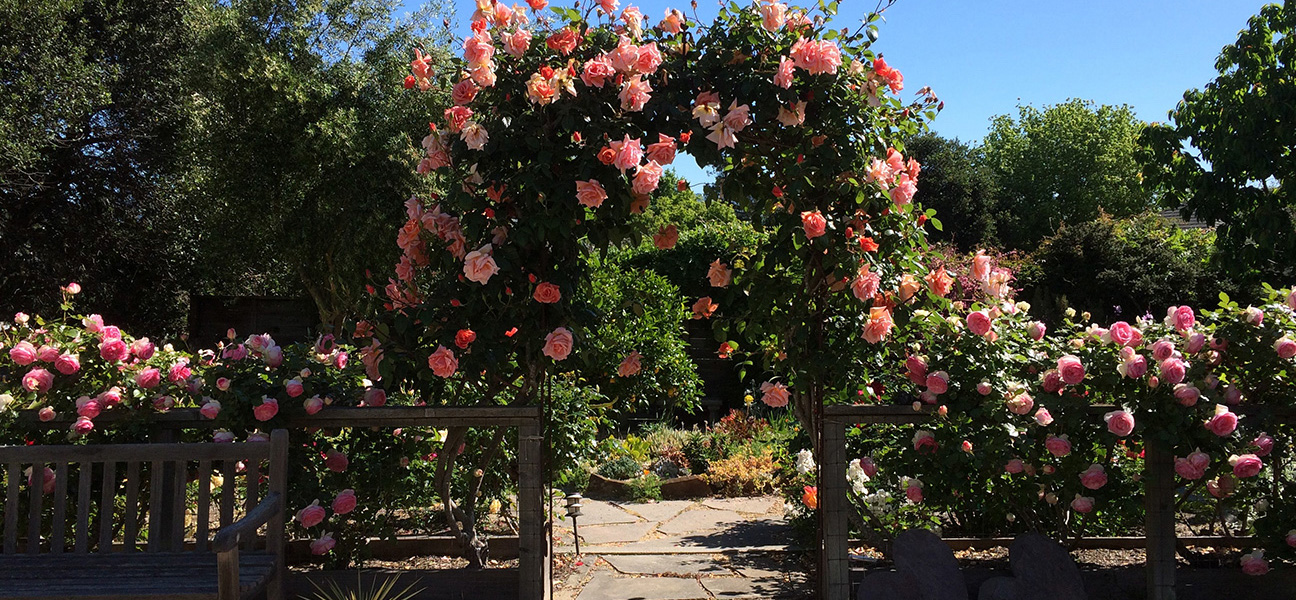
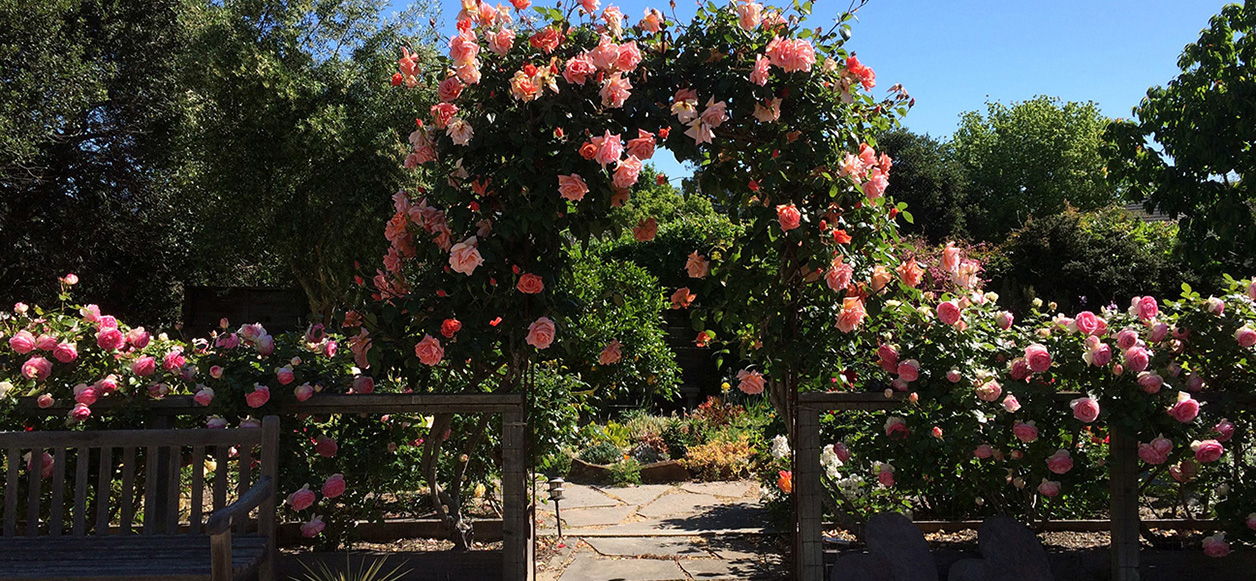
Updating images. Modifying header image to display parent page images. Modified size of gallery to large instead of full

diff --git a/web/app/themes/greenspace/scss/bootstrap.scss b/web/app/themes/greenspace/scss/bootstrap.scss
@@ -1,8 +1,17 @@
 
 // 1. Include functions first (so you can manipulate colors, SVGs, calc, etc)
-@import "../../node_modules/bootstrap/scss/functions";
+@import "../node_modules/bootstrap/scss/functions";
 
 // 2. Include any default variable overrides here
+$container-max-widths: (
+        sm: 540px,
+        md: 720px,
+        lg: 960px,
+        xl: 1140px,
+        xxl: 1280px
+);
+
+
 $green: #488b00;
 
 $gray-100: #f8f9fa;
@@ -40,21 +49,21 @@ $btn-hover-bg-shade-amount: 40%;
 
 
 // 3. Include remainder of required Bootstrap stylesheets
-@import "../../node_modules/bootstrap/scss/variables";
-@import "../../node_modules/bootstrap/scss/mixins";
+@import "../node_modules/bootstrap/scss/variables";
+@import "../node_modules/bootstrap/scss/mixins";
 
 // 4. Include any optional Bootstrap components as you like
-@import "../../node_modules/bootstrap/scss/root";
-@import "../../node_modules/bootstrap/scss/reboot";
-@import "../../node_modules/bootstrap/scss/type";
-@import "../../node_modules/bootstrap/scss/utilities";
-@import "../../node_modules/bootstrap/scss/utilities/api";
-@import "../../node_modules/bootstrap/scss/images";
-@import "../../node_modules/bootstrap/scss/containers";
-@import "../../node_modules/bootstrap/scss/grid";
-@import "../../node_modules/bootstrap/scss/tables";
-@import "../../node_modules/bootstrap/scss/forms";
-@import "../../node_modules/bootstrap/scss/nav";
-@import "../../node_modules/bootstrap/scss/navbar";
-@import "../../node_modules/bootstrap/scss/transitions";
-@import "../../node_modules/bootstrap/scss/buttons";
+@import "../node_modules/bootstrap/scss/root";
+@import "../node_modules/bootstrap/scss/reboot";
+@import "../node_modules/bootstrap/scss/type";
+@import "../node_modules/bootstrap/scss/utilities";
+@import "../node_modules/bootstrap/scss/utilities/api";
+@import "../node_modules/bootstrap/scss/images";
+@import "../node_modules/bootstrap/scss/containers";
+@import "../node_modules/bootstrap/scss/grid";
+@import "../node_modules/bootstrap/scss/tables";
+@import "../node_modules/bootstrap/scss/forms";
+@import "../node_modules/bootstrap/scss/nav";
+@import "../node_modules/bootstrap/scss/navbar";
+@import "../node_modules/bootstrap/scss/transitions";
+@import "../node_modules/bootstrap/scss/buttons";

diff --git a/web/app/themes/greenspace/style.css b/web/app/themes/greenspace/style.css
@@ -5182,7 +5182,7 @@ progress {
 }
 @media (min-width: 1400px) {
   .container-xxl, .container-xl, .container-lg, .container-md, .container-sm, .container {
-    max-width: 1320px;
+    max-width: 1280px;
   }
 }
 .row {

diff --git a/web/app/themes/greenspace/scss/style.scss b/web/app/themes/greenspace/scss/style.scss
@@ -1,4 +1,4 @@
-@import "file-header";
+@import "_header";
 
 @import url(https://fonts.googleapis.com/css2?family=Antic+Slab&display=swap);
 

diff --git a/web/app/themes/greenspace/inc/template-functions.php b/web/app/themes/greenspace/inc/template-functions.php
@@ -259,7 +259,7 @@ function greenspace_filter_portfolio_gallery( $null, $attr ) {
     ob_start(); ?>
     <div class="greenspace-slideshow">
         <?php foreach( $attachments as $attachment) {
-            printf( '<div>%s</div>', wp_get_attachment_image($attachment->ID, 'full', false, ['class' => 'mx-auto'] ) );
+            printf( '<div>%s</div>', wp_get_attachment_image($attachment->ID, 'large', false, ['class' => 'mx-auto'] ) );
         } ?>
     </div>
     <script>
@@ -371,7 +371,15 @@ function greenspace_header_image() {
 
     $banner_string = 'banner-%%slug%%.jpg';
     $banner_path = '/assets/images/';
-    $page_slug = get_post_field( 'post_name' );
+
+    $post = get_post();
+
+    if ( $post->post_parent ) {
+        $parent = get_post( $post->post_parent );
+        $page_slug = $parent->post_name;
+    } else {
+        $page_slug = $post->post_name;
+    }
 
 
     if ( file_exists( str_replace('%%slug%%', $page_slug, get_template_directory() . $banner_path . $banner_string) ) ) {
